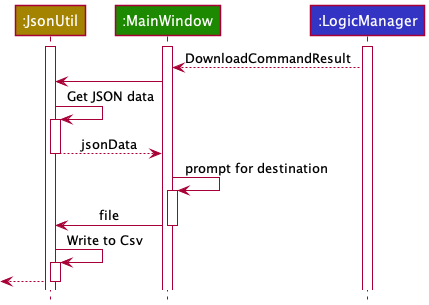
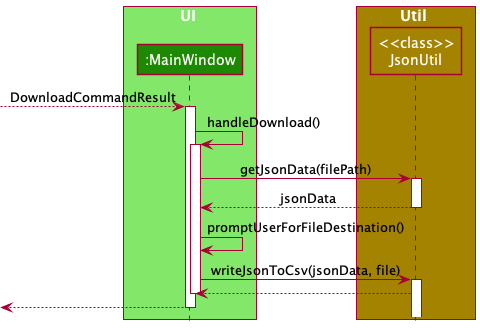
Update download puml diagram

diff --git a/src/main/java/seedu/programmer/ui/MainWindow.java b/src/main/java/seedu/programmer/ui/MainWindow.java
@@ -262,7 +262,7 @@ public class MainWindow extends UiPart<Stage> {
             return;
         }
 
-        File destinationFile = promptUserForDestination();
+        File destinationFile = promptUserForFileDestination();
         if (destinationFile == null) {
             return;
         }
@@ -379,7 +379,7 @@ public class MainWindow extends UiPart<Stage> {
      *
      * @return File object with a file name appended to the chosen directory
      */
-    public File promptUserForDestination() {
+    public File promptUserForFileDestination() {
         String destFileName = "programmerError.csv";
         DirectoryChooser dirChooser = new DirectoryChooser();
         File chosenDir = dirChooser.showDialog(primaryStage);

diff --git a/docs/DeveloperGuide.md b/docs/DeveloperGuide.md
@@ -454,11 +454,9 @@ related to the UI. In addition, the following classes are utilised:
 - `MainWindow.fxml`: for the addition of a 'Download' button on the MainWindow
 - `Popup.css`: for the customisation of styles for pop-up messages
 
-The following sequence diagrams shows how the `download` command works:
+In the `Logic` components, the `download` command works in a similar fashion to the `show` command, except that it does not require its own parser. 
 
-1. Similarly to the Show command, when the user executes the `download` command, the `Logic Manager` and `ProgrammerErrorParser`are used. 
-
-![DownloadSequenceDiagram1](images/commands/DownloadCommand/DownloadSequenceDiagram1.png)
+This sequence diagram shows how the `download` command works at a lever lower:
 
 ![DownloadSequenceDiagram](images/commands/DownloadCommand/DownloadSequenceDiagram.png)
 
